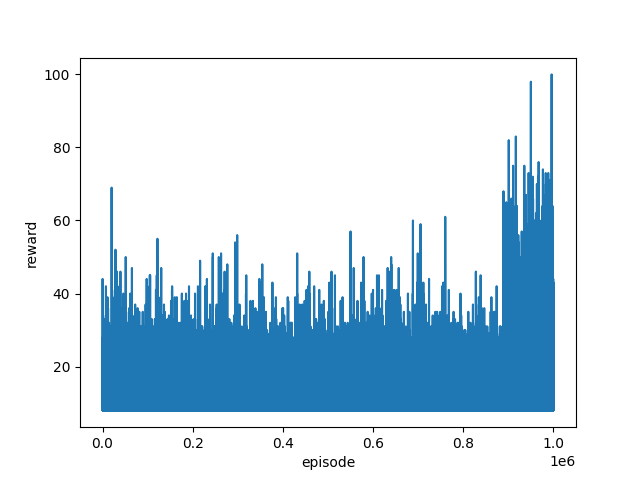
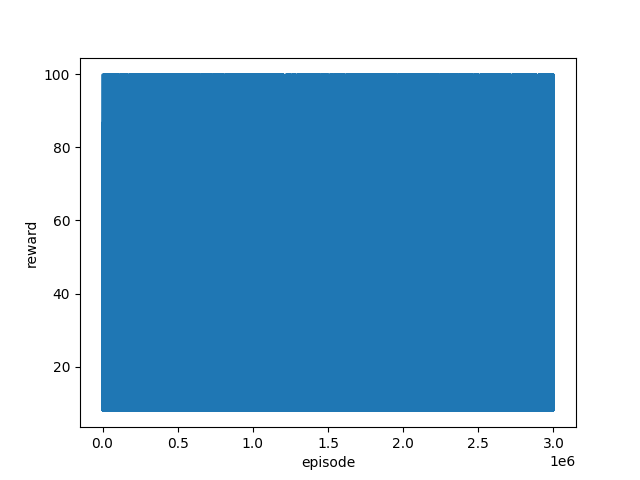
add annealing epsilon greeding

diff --git a/DQN/dqn.py b/DQN/dqn.py
@@ -49,13 +49,13 @@ class DQN():
         return predict
 
     def update_parameter(self, act, obs, reward, next_obs, done):
-        with torch.autocast(device_type='cuda', dtype=torch.float32):
+        with torch.autocast(device_type=DEVICE, dtype=torch.float32):
             if done == True:
               y = reward
             else:
               y = reward + self.gamma * torch.max(self.model(next_obs))
 
-            x = torch.unsqueeze(self.model(obs)[int(act.item())],0)
+            x = self.model(obs)[int(act.item())]
             loss = self.loss_fn(x,y)
 
         self.optimizer.zero_grad()

diff --git a/DQN/config.py b/DQN/config.py
@@ -5,9 +5,9 @@ import torch
 DQN_PARAM_PATH = os.path.join(os.path.dirname(os.path.abspath(__file__)), 'param/DQNparam')
 GAMMA = 0.9
 EPSILON = 0.01  #最小値
-NUM_EPI = int(1e2)
+NUM_EPI = int(3e6)
 NUM_STEP = int(1e2)
-MEMORY = int(1e3)
+MEMORY = int(1e5)
 INTERVAL = 100
 DEVICE = (
              "cuda"
